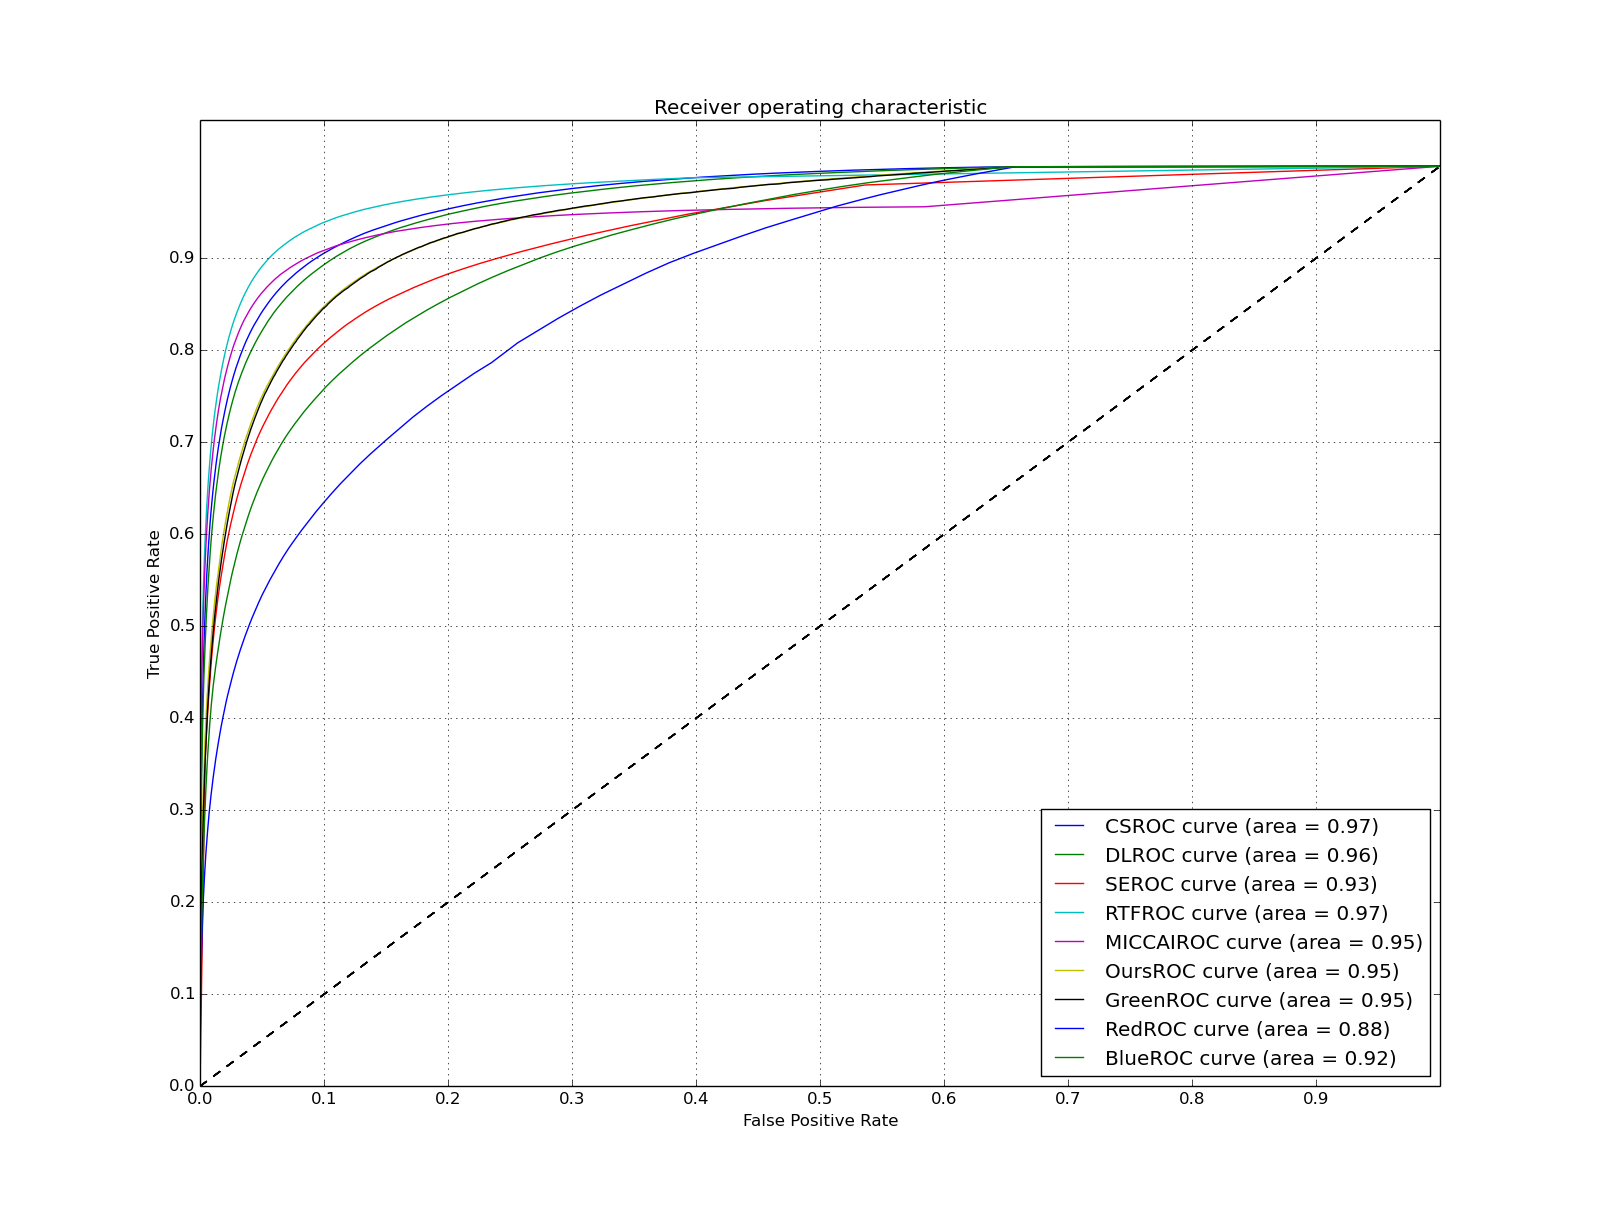
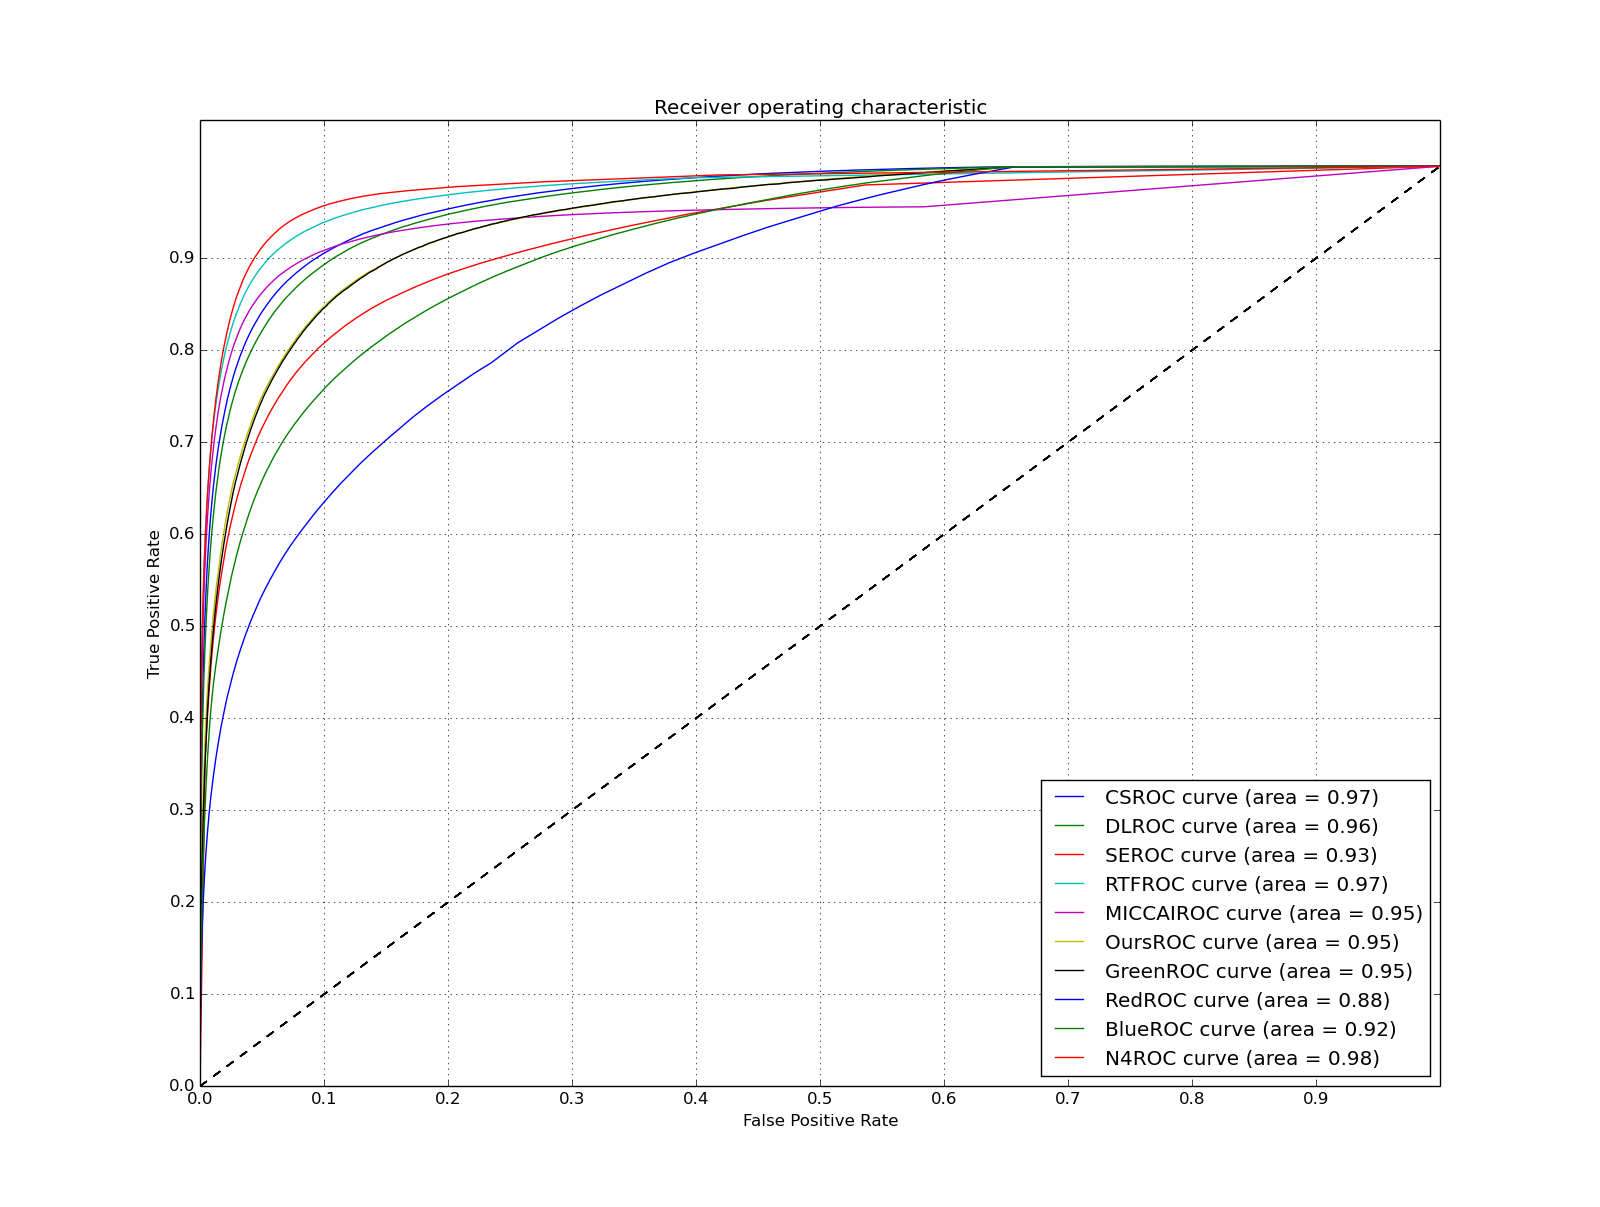
ROC:Add N4

Changed region(s): [[0.6562, 0.6437, 0.9062, 0.889]]

diff --git a/code/plot_roc.py b/code/plot_roc.py
@@ -26,7 +26,7 @@ for file in filenames:
 	img[key] = rgb2gray(plt.imread(file)) * mask_img[key]
 	img[key] = img[key]/np.max(img[key])
 
-plotroc(img,gt1_img,"All")
+plotroc(img,gt1_img,"Ours")
 
 for gfile in file_green:
 	key = os.path.splitext(gfile)[0][-4:-2]
@@ -62,6 +62,7 @@ file_DL =glob.glob("../Other_Expt/DL/*.png")
 file_SE =glob.glob("../Other_Expt/SE/*.png")
 file_RTF =glob.glob("../Other_Expt/RTF/*.png")
 file_MICCAI =glob.glob("../Other_Expt/MICCAI/*.png")
+file_N4 =glob.glob("../Other_Expt/N4/*.png")
 
 for gfile in file_CS:
 	key = os.path.splitext(gfile)[0][-2:]
@@ -97,6 +98,13 @@ for gfile in file_MICCAI:
 	img[key] = img[key]/np.max(img[key])
 
 plotroc(img,gt1_img,"MICCAI")
+
+for gfile in file_N4:
+	key = os.path.splitext(gfile)[0][-2:]
+	img[key] = rgb2gray(plt.imread(gfile)) * mask_img[key]
+	img[key] = img[key]/np.max(img[key])
+
+plotroc(img,gt1_img,"N4")
 '''
 Calcualte statistics all images
 '''
@@ -113,8 +121,8 @@ def plotroc(img,gt1_img,tit):
 	im_gt = np.asarray(im_gt)
 
 	fpr,tpr,roc_auc = driveUtils.seg_eval_roc(im_pred, im_gt)
-	driveUtils.plot_roc(fpr, tpr, roc_auc)
-	plt.title("ROC_" + str(tit))
+	driveUtils.plot_roc(fpr, tpr, roc_auc,tit)
+	#plt.title("ROC_" + str(tit))
 
 #Calculate TP,FP, F1-score, accuracy,precision
 

diff --git a/code/driveUtils.py b/code/driveUtils.py
@@ -158,7 +158,7 @@ def seg_eval_roc(img,gt):
 def plot_roc(fpr,tpr,roc_auc,lkey="Ours"):
 	
 	#plt.figure()
-	plt.plot(fpr, tpr, label=str(lkey)+'ROC curve (area = %0.2f)' % roc_auc)
+	plt.plot(fpr, tpr, label=str(lkey)+'_ROC curve (area = %0.2f)' % roc_auc)
 	plt.plot([0, 1], [0, 1], 'k--')
 	plt.xlim([0.0, 1.0])
 	plt.ylim([0.0, 1.05])
